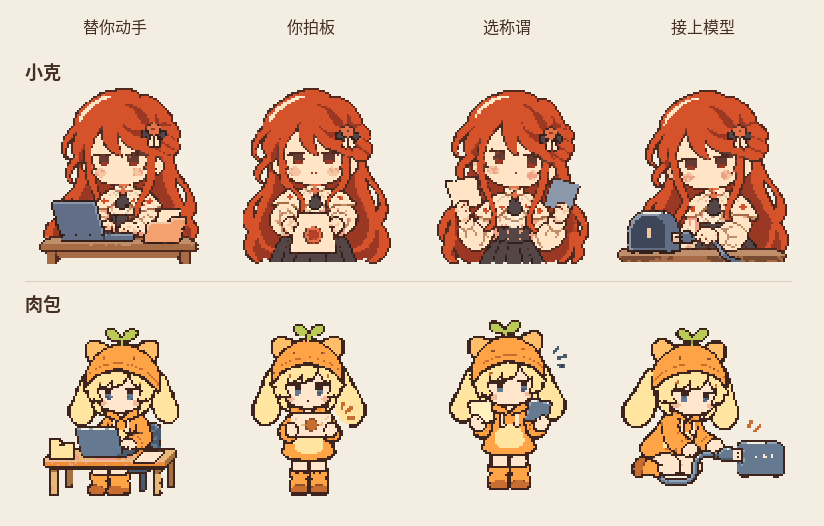
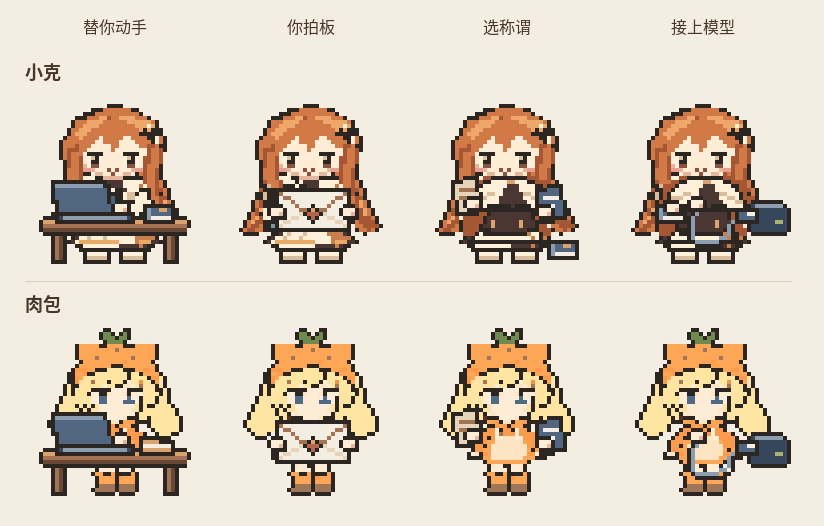
Align onboarding artwork to one pixel style

diff --git a/docs/STATUS.md b/docs/STATUS.md
@@ -33,7 +33,7 @@
 
 ## 首次打开引导
 
-- C9：小克、肉包各四张引导插画，源文件与对照图在 `design/incoming/onboarding/`。待主人选定整套角色，再由 Claude 接入引导页。
+- C9：小克、肉包各四张引导插画，统一全身视角、脚底线、像素网格和道具比例，小克用原立绘的铜橘发色。对照图和素材在 `design/incoming/onboarding/`。待主人选定整套角色，再由 Claude 接入引导页。
 
 ## 统一打磨清单
 
